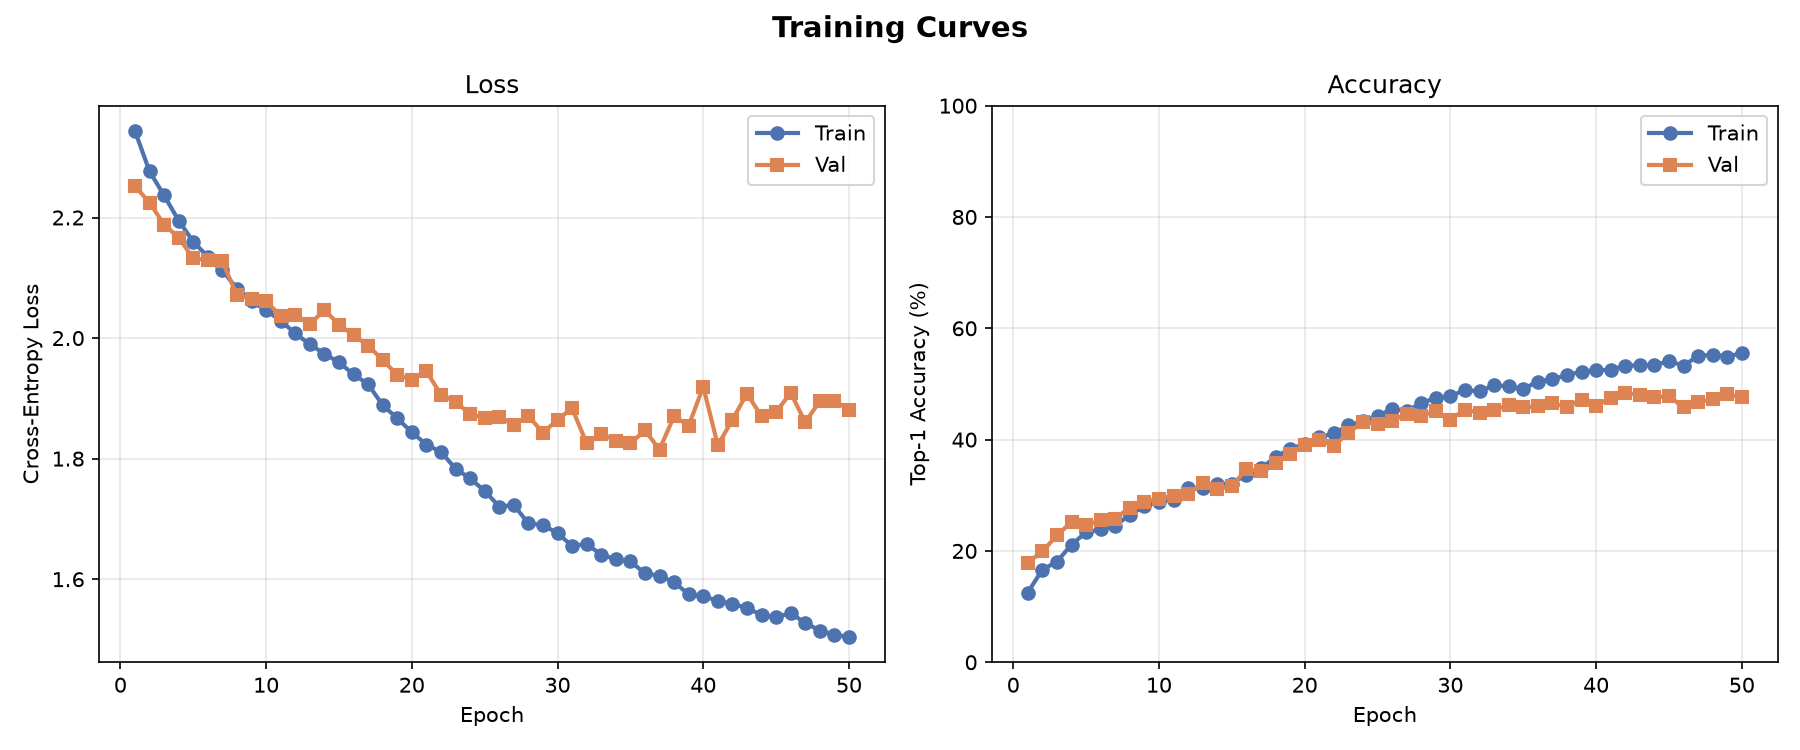
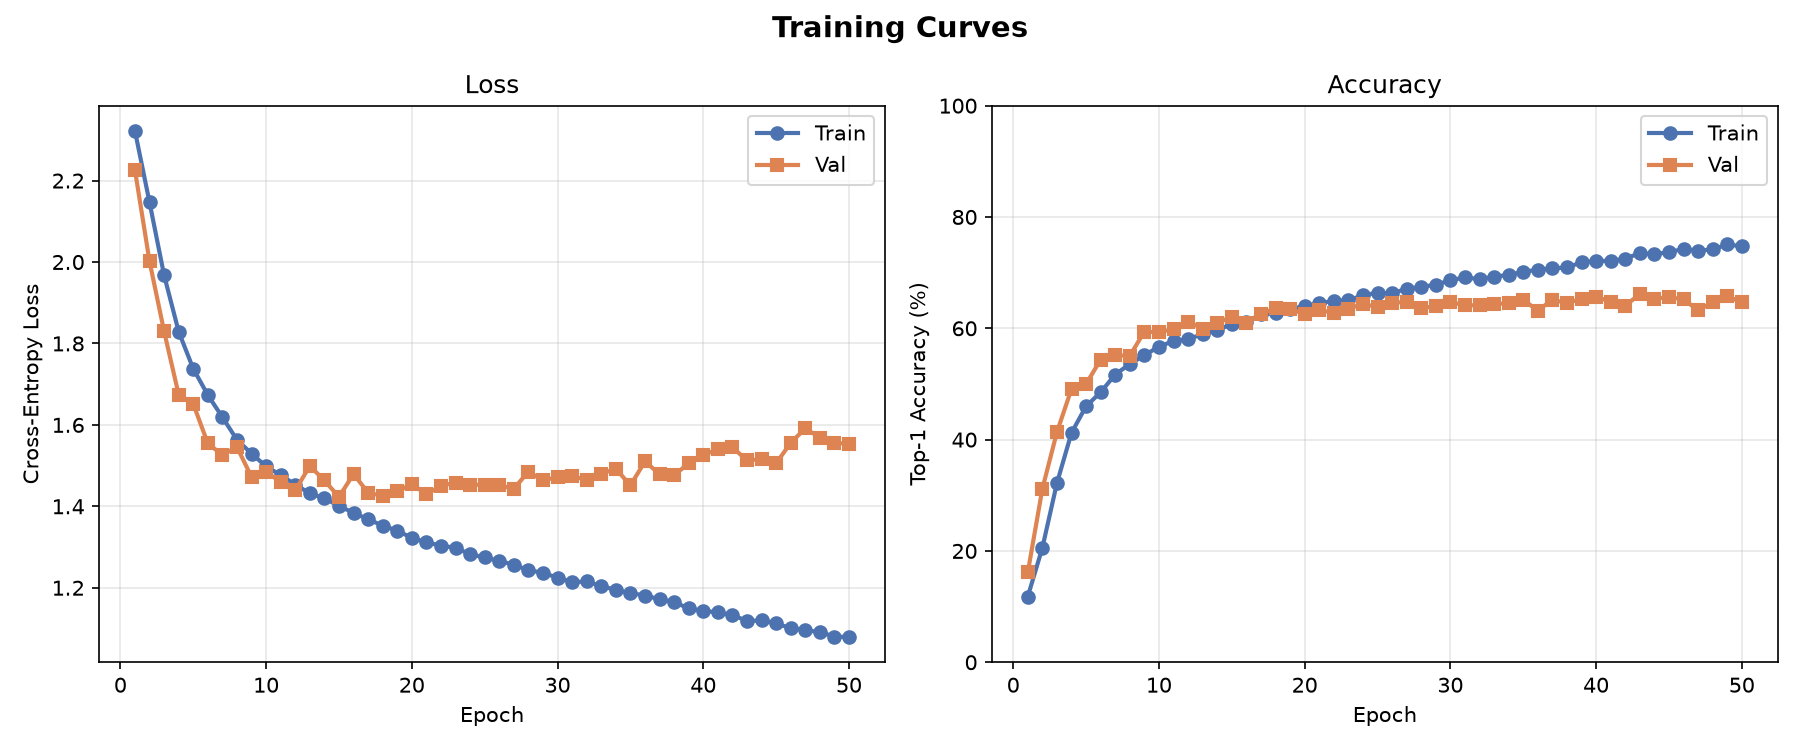
baseline+added feature,also careful for extrsction command

diff --git a/src/airletters/data/landmark_dataset.py b/src/airletters/data/landmark_dataset.py
@@ -50,6 +50,9 @@ class LandmarkDataset(Dataset):
         cache_dir: str | Path,
         label_to_index: Mapping[str, int] | None = None,
         num_frames: int = 32,
+        normalize: bool = True,
+        fill_missing: bool = True,
+        add_velocity: bool = True,
         split: str | None = None,
         subset_config: Mapping[str, Any] | None = None,
         class_filter: str | list[str] | None = None,
@@ -57,6 +60,9 @@ class LandmarkDataset(Dataset):
         self.csv_path = Path(csv_path)
         self.cache_dir = Path(cache_dir)
         self.num_frames = num_frames
+        self.normalize = normalize
+        self.fill_missing = fill_missing
+        self.add_velocity = add_velocity
 
         self.records: pd.DataFrame = pd.read_csv(self.csv_path, skipinitialspace=True)
         missing_cols = set(REQUIRED_COLUMNS) - set(self.records.columns)
@@ -90,6 +96,7 @@ class LandmarkDataset(Dataset):
         lm_config = config["data"].get("landmarks", {})
         cache_dir = Path(lm_config.get("cache_dir", "landmarks_cache"))
         num_frames = int(lm_config.get("num_frames", 32))
+        features_config = lm_config.get("features", {})
 
         # Resolve CSV path using the same helper as AirLettersDataset
         from airletters.config import get_split_csv
@@ -103,6 +110,9 @@ class LandmarkDataset(Dataset):
             cache_dir=cache_dir,
             label_to_index=label_to_index,
             num_frames=num_frames,
+            normalize=bool(features_config.get("normalize", True)),
+            fill_missing=bool(features_config.get("fill_missing", True)),
+            add_velocity=bool(features_config.get("add_velocity", True)),
             split=split,
             subset_config=subset_config,
             class_filter=class_filter,
@@ -130,8 +140,15 @@ class LandmarkDataset(Dataset):
         elif len(landmarks) > self.num_frames:
             landmarks = landmarks[: self.num_frames]
 
+        landmarks = prepare_landmark_features(
+            landmarks=landmarks,
+            normalize=self.normalize,
+            fill_missing=self.fill_missing,
+            add_velocity=self.add_velocity,
+        )
+
         return {
-            "landmarks": torch.from_numpy(landmarks),  # (T, 63)
+            "landmarks": torch.from_numpy(landmarks),  # (T, feature_dim)
             "label": label,
             "label_id": int(self.label_to_index[label]),
             "id": int(row["id"]),
@@ -177,3 +194,99 @@ def create_landmark_dataloaders(
         ),
     }
     return dataloaders, label_to_index
+
+
+def prepare_landmark_features(
+    landmarks: np.ndarray,
+    normalize: bool = True,
+    fill_missing: bool = True,
+    add_velocity: bool = True,
+) -> np.ndarray:
+    """Convert raw cached MediaPipe landmarks into model-ready features."""
+    features = np.asarray(landmarks, dtype=np.float32).copy()
+    if features.ndim != 2 or features.shape[1] != 63:
+        raise ValueError(
+            f"Expected landmark array with shape (T, 63), got {features.shape}"
+        )
+
+    valid_mask = features_valid_mask(features)
+    if fill_missing:
+        features = fill_missing_landmark_frames(features, valid_mask)
+        valid_mask = features_valid_mask(features)
+
+    if normalize:
+        features = normalize_landmarks(features, valid_mask)
+
+    if add_velocity:
+        velocity = np.zeros_like(features, dtype=np.float32)
+        velocity[1:] = features[1:] - features[:-1]
+        if not fill_missing:
+            valid_pairs = valid_mask[1:] & valid_mask[:-1]
+            velocity[1:] *= valid_pairs[:, None]
+        features = np.concatenate([features, velocity], axis=1)
+
+    return features.astype(np.float32, copy=False)
+
+
+def features_valid_mask(landmarks: np.ndarray) -> np.ndarray:
+    """Return ``True`` for frames with a detected hand."""
+    return np.abs(landmarks).sum(axis=1) > 0
+
+
+def fill_missing_landmark_frames(
+    landmarks: np.ndarray,
+    valid_mask: np.ndarray,
+) -> np.ndarray:
+    """Fill zero landmark frames with the nearest valid frame."""
+    if not valid_mask.any():
+        return landmarks
+
+    filled = landmarks.copy()
+    valid_indices = np.flatnonzero(valid_mask)
+    nearest_right_positions = np.searchsorted(valid_indices, np.arange(len(landmarks)))
+
+    for idx in np.flatnonzero(~valid_mask):
+        right_pos = nearest_right_positions[idx]
+        left_pos = right_pos - 1
+
+        left_idx = valid_indices[left_pos] if left_pos >= 0 else None
+        right_idx = (
+            valid_indices[right_pos]
+            if right_pos < len(valid_indices)
+            else None
+        )
+
+        if left_idx is None:
+            fill_idx = right_idx
+        elif right_idx is None:
+            fill_idx = left_idx
+        else:
+            fill_idx = left_idx if idx - left_idx <= right_idx - idx else right_idx
+        filled[idx] = landmarks[int(fill_idx)]
+
+    return filled
+
+
+def normalize_landmarks(
+    landmarks: np.ndarray,
+    valid_mask: np.ndarray,
+    eps: float = 1.0e-6,
+) -> np.ndarray:
+    """Center and scale each sequence while preserving hand trajectory."""
+    if not valid_mask.any():
+        return landmarks
+
+    points = landmarks.reshape(landmarks.shape[0], 21, 3).copy()
+    valid_points = points[valid_mask]
+
+    center = valid_points.reshape(-1, 3).mean(axis=0, keepdims=True)
+    points = points - center.reshape(1, 1, 3)
+
+    valid_centered = points[valid_mask].reshape(-1, 3)
+    scale = np.linalg.norm(valid_centered, axis=1).max()
+    scale = max(float(scale), eps)
+    points = points / scale
+
+    normalized = points.reshape(landmarks.shape).astype(np.float32)
+    normalized[~valid_mask] = 0.0
+    return normalized

diff --git a/src/airletters/data/landmarks.py b/src/airletters/data/landmarks.py
@@ -57,9 +57,11 @@ def _ensure_model() -> str:
 
 def extract_landmarks_from_frames(
     frames_rgb: np.ndarray,
-    min_hand_detection_confidence: float = 0.5,
-    min_hand_presence_confidence: float = 0.5,
-    min_tracking_confidence: float = 0.5,
+    min_hand_detection_confidence: float = 0.25,
+    min_hand_presence_confidence: float = 0.25,
+    min_tracking_confidence: float = 0.25,
+    use_video_mode: bool = True,
+    frame_timestamp_step_ms: int = 33,
 ) -> np.ndarray:
     """Extract hand landmarks from a sequence of RGB frames.
 
@@ -70,6 +72,9 @@ def extract_landmarks_from_frames(
         min_hand_detection_confidence: Minimum confidence for hand detection.
         min_hand_presence_confidence: Minimum confidence for hand presence.
         min_tracking_confidence: Minimum confidence for landmark tracking.
+        use_video_mode: Use MediaPipe's video tracking mode instead of
+            independent image detection for each sampled frame.
+        frame_timestamp_step_ms: Timestamp increment used in video mode.
 
     Returns:
         Float32 array of shape ``(T, 63)``. Frames with no detected hand
@@ -82,7 +87,11 @@ def extract_landmarks_from_frames(
     base_options = mp_python.BaseOptions(model_asset_path=model_path)
     options = mp_vision.HandLandmarkerOptions(
         base_options=base_options,
-        running_mode=mp_vision.RunningMode.IMAGE,  # frame-by-frame (no timestamps)
+        running_mode=(
+            mp_vision.RunningMode.VIDEO
+            if use_video_mode
+            else mp_vision.RunningMode.IMAGE
+        ),
         num_hands=1,
         min_hand_detection_confidence=min_hand_detection_confidence,
         min_hand_presence_confidence=min_hand_presence_confidence,
@@ -92,7 +101,13 @@ def extract_landmarks_from_frames(
     with mp_vision.HandLandmarker.create_from_options(options) as detector:
         for t, frame in enumerate(frames_rgb):
             mp_image = mp.Image(image_format=mp.ImageFormat.SRGB, data=frame)
-            detection_result = detector.detect(mp_image)
+            if use_video_mode:
+                detection_result = detector.detect_for_video(
+                    mp_image,
+                    timestamp_ms=t * frame_timestamp_step_ms,
+                )
+            else:
+                detection_result = detector.detect(mp_image)
 
             if not detection_result.hand_landmarks:
                 continue  # leave zero vector for this frame

diff --git a/src/airletters/data/extract_landmarks.py b/src/airletters/data/extract_landmarks.py
@@ -62,6 +62,7 @@ def extract_for_split(
     cache_dir: Path,
     num_frames: int,
     image_size: int,
+    extraction_config: dict,
     overwrite: bool,
 ) -> None:
     """Extract landmarks for all videos in one split."""
@@ -92,7 +93,22 @@ def extract_for_split(
             image_size=image_size,
         )  # (T, H, W, 3) uint8 RGB
 
-        landmarks = extract_landmarks_from_frames(frames_rgb)  # (T, 63)
+        landmarks = extract_landmarks_from_frames(
+            frames_rgb,
+            min_hand_detection_confidence=float(
+                extraction_config.get("min_hand_detection_confidence", 0.25)
+            ),
+            min_hand_presence_confidence=float(
+                extraction_config.get("min_hand_presence_confidence", 0.25)
+            ),
+            min_tracking_confidence=float(
+                extraction_config.get("min_tracking_confidence", 0.25)
+            ),
+            use_video_mode=bool(extraction_config.get("use_video_mode", True)),
+            frame_timestamp_step_ms=int(
+                extraction_config.get("frame_timestamp_step_ms", 33)
+            ),
+        )  # (T, 63)
         np.save(cache_file, landmarks)
         processed += 1
 
@@ -110,11 +126,19 @@ def main() -> None:
     num_frames = int(lm_config.get("num_frames", 32))
     image_size = int(lm_config.get("image_size", 224))
     cache_dir = Path(lm_config.get("cache_dir", "landmarks_cache"))
+    extraction_config = dict(lm_config.get("extraction", {}))
     cache_dir.mkdir(parents=True, exist_ok=True)
 
     print(f"Cache directory : {cache_dir.resolve()}")
     print(f"Frames per video: {num_frames}")
     print(f"Resize to       : {image_size}px")
+    print(
+        "Extraction      : "
+        f"video_mode={bool(extraction_config.get('use_video_mode', True))}, "
+        f"det={float(extraction_config.get('min_hand_detection_confidence', 0.25))}, "
+        f"presence={float(extraction_config.get('min_hand_presence_confidence', 0.25))}, "
+        f"tracking={float(extraction_config.get('min_tracking_confidence', 0.25))}"
+    )
 
     for split in args.splits:
         extract_for_split(
@@ -123,6 +147,7 @@ def main() -> None:
             cache_dir=cache_dir,
             num_frames=num_frames,
             image_size=image_size,
+            extraction_config=extraction_config,
             overwrite=args.overwrite,
         )
 
